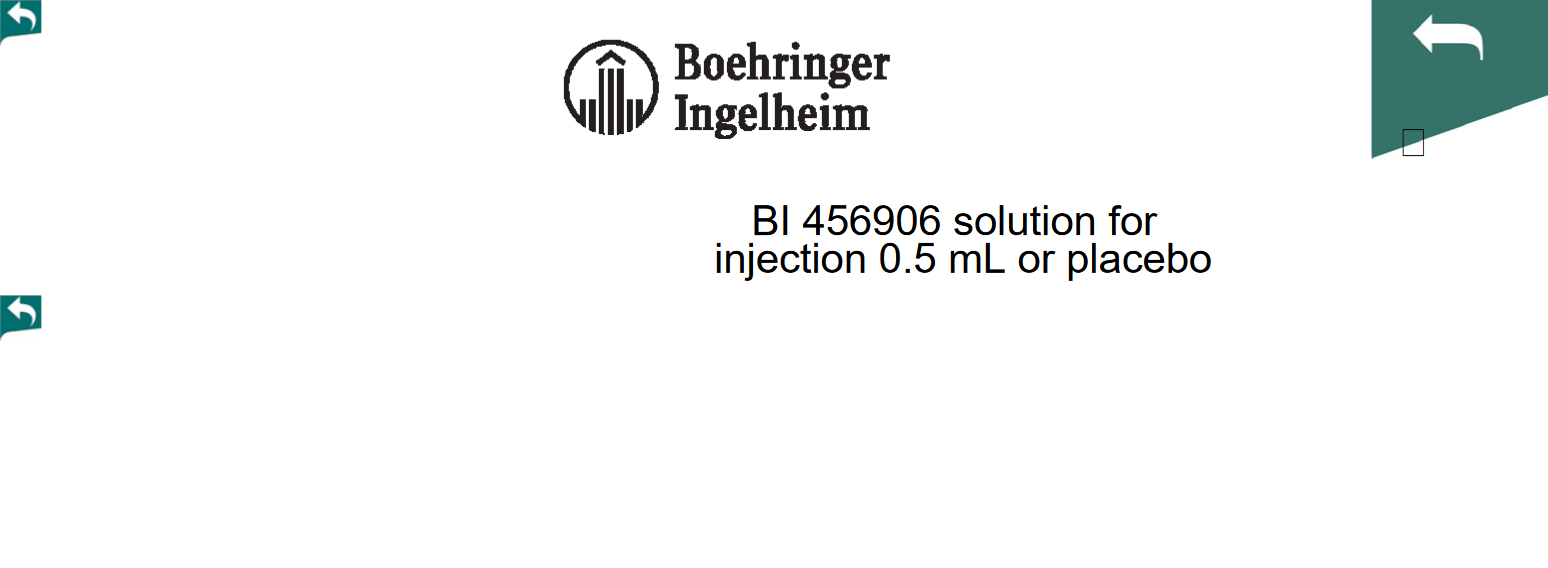
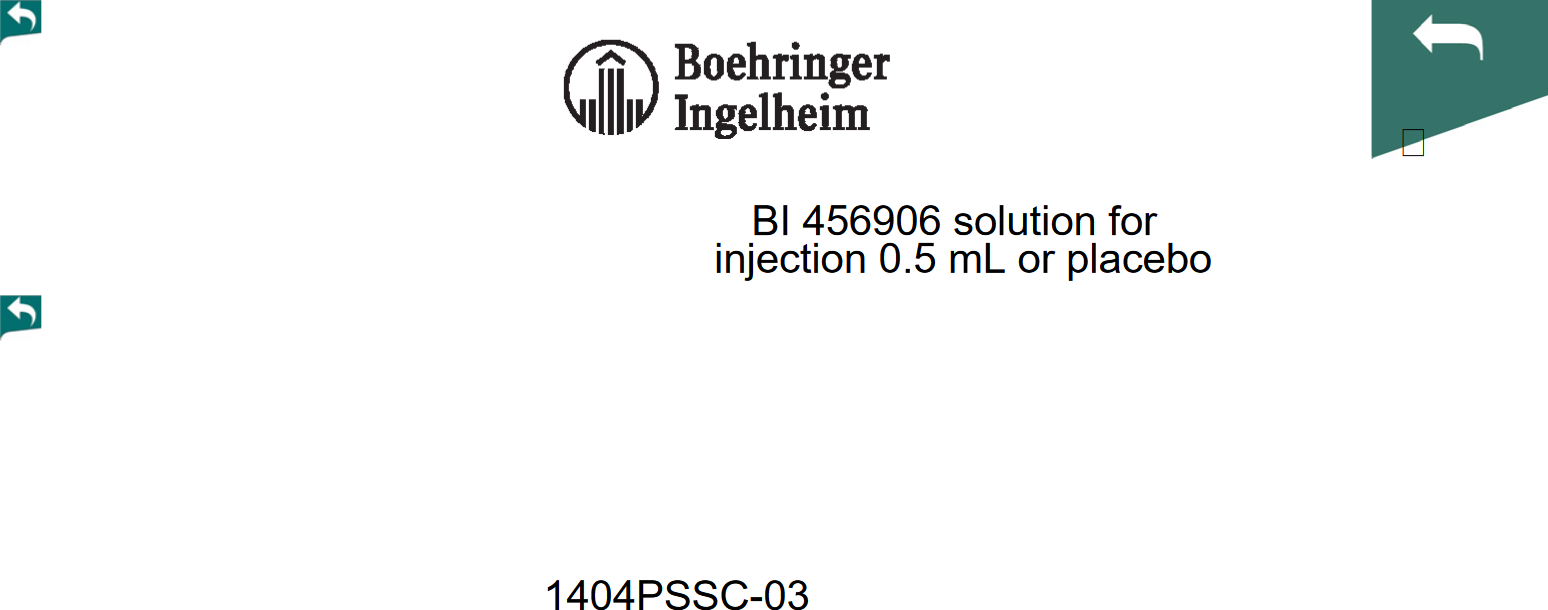
Account for text baseline offset in bounding box calculation
- Text rendering uses a 10-point baseline offset below the bounding box
- Updated bounding box calculation to subtract baseline offset from minY
- Prevents bottom text from being clipped
- Image height increased from 568 to 610 pixels to accommodate baseline
- Text '1404PSSC-03' now fully visible at bottom

diff --git a/src/OCRAnalysis.cpp b/src/OCRAnalysis.cpp
@@ -2306,6 +2306,8 @@ OCRAnalysis::renderElementsToPNG(const PDFElements &elements,
     double actualMaxY = std::numeric_limits<double>::lowest();
 
     // Check text elements
+    const double textBaselineOffset =
+        10.0; // Must match the offset used in rendering
     for (const auto &text : elements.textLines) {
       double textLeft = std::max(static_cast<double>(text.boundingBox.x), minX);
       double textTop = std::max(static_cast<double>(text.boundingBox.y), minY);
@@ -2318,9 +2320,16 @@ OCRAnalysis::renderElementsToPNG(const PDFElements &elements,
 
       if (textLeft < textRight && textTop < textBottom) {
         actualMinX = std::min(actualMinX, textLeft);
-        actualMinY = std::min(actualMinY, textTop);
+        // Account for baseline offset when calculating minimum Y
+        // In PDF coords (bottom-left origin), lower Y values are at bottom
+        // The baseline offset extends the text downward (lower Y)
+        actualMinY = std::min(actualMinY, textTop - textBaselineOffset);
         actualMaxX = std::max(actualMaxX, textRight);
         actualMaxY = std::max(actualMaxY, textBottom);
+
+        std::cerr << "DEBUG: Text '" << text.text << "' bounds: (" << textLeft
+                  << ", " << textTop << ") to (" << textRight << ", "
+                  << textBottom << ")" << std::endl;
       }
     }
 
